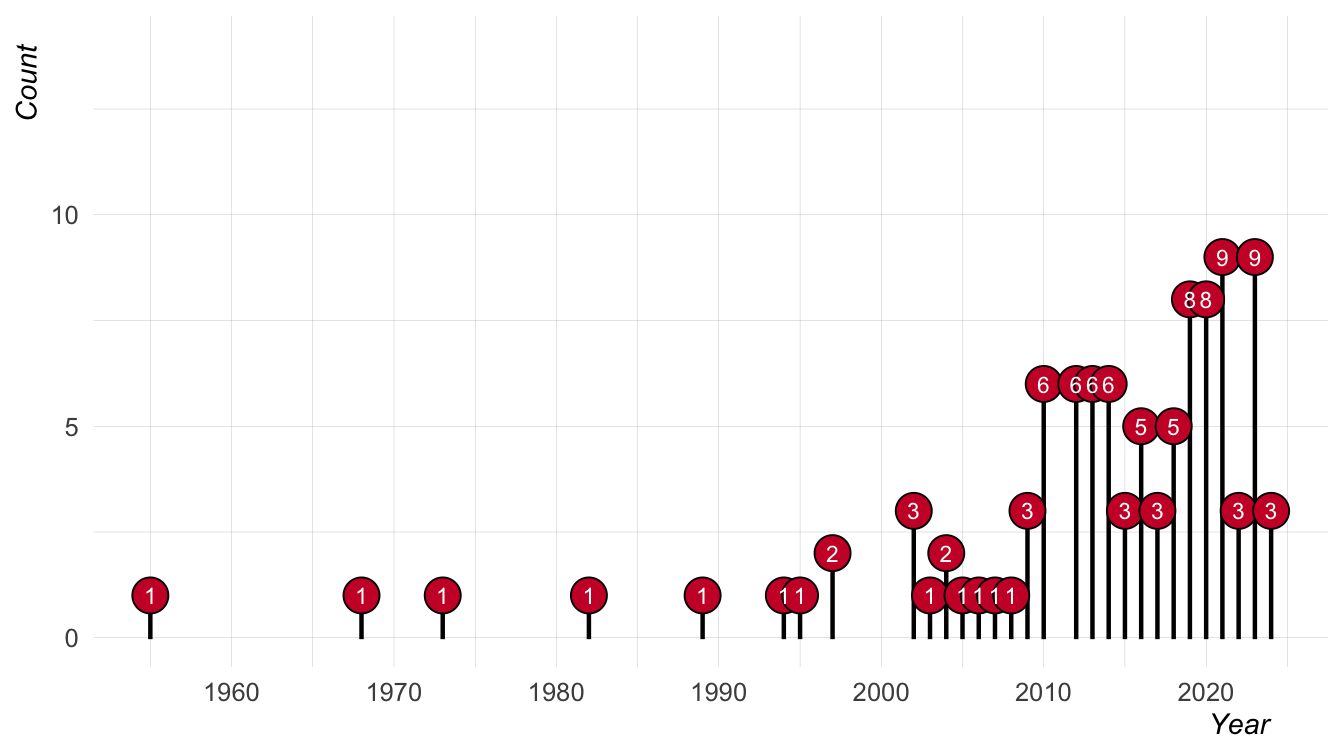
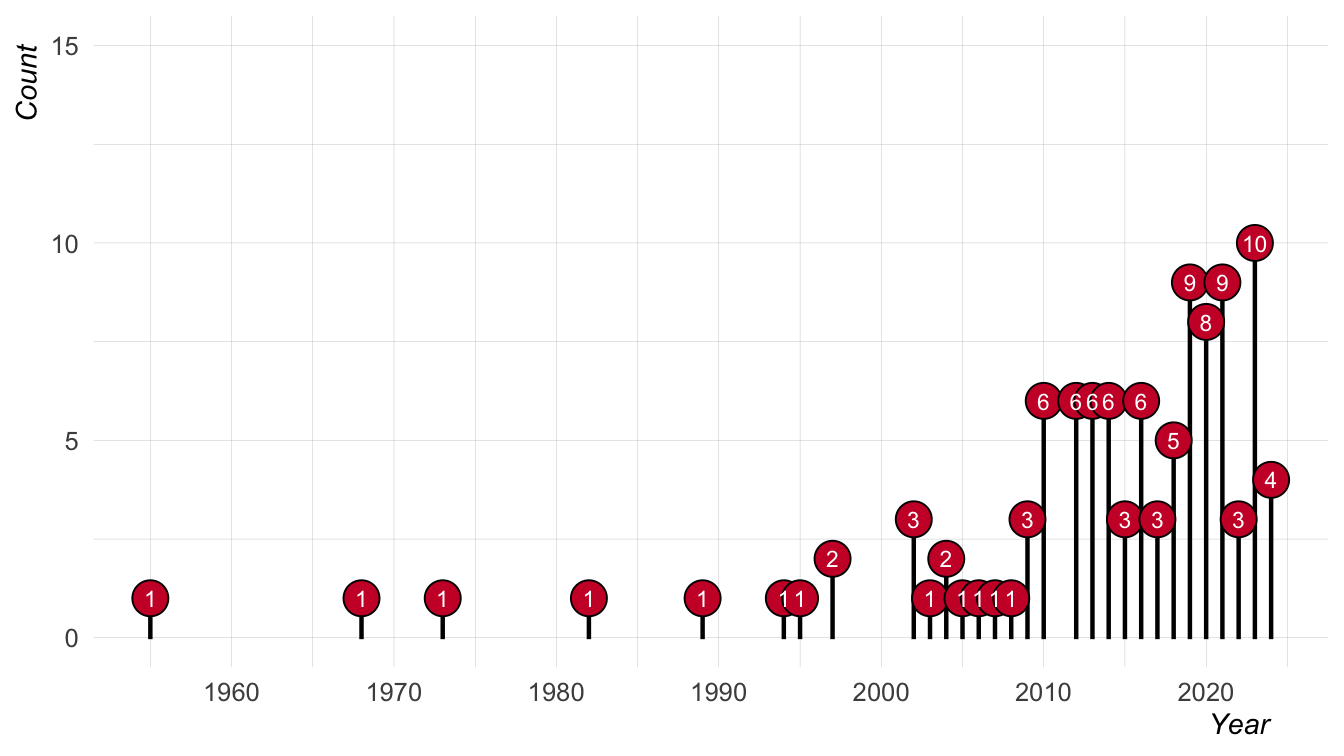
add final refs

diff --git a/README.md b/README.md
@@ -1,6 +1,6 @@
 # Sound communities references
 Joseph V. Casillas
-2025-02-26
+2025-02-28
 
 ## Citation Types
 
@@ -176,6 +176,16 @@ Brice, Alejandro E, Cecyle K Carson, and Jennifer Dennis O’Brien. 2009.
 “Spanish-English Articulation and Phonology of 4-and 5-Year-Old
 Preschool Children: An Initial Investigation.” *Communication Disorders
 Quarterly* 31 (1): 3–14. <https://doi.org/10.1177/1525740108327447>.
+
+</div>
+
+<div id="ref-brown2023searching" class="csl-entry">
+
+Brown, Bianca, Botagoz Tusmagambet, Valentino Rahming, Chun-Ying Tu,
+Michael B DeSalvo, and Seth Wiener. 2023. “Searching for the "Native"
+Speaker: A Preregistered Conceptual Replication and Extension of Reid,
+Trofimovich, and O’Brien (2019).” *Applied Psycholinguistics* 44 (4):
+475–94. <https://doi.org/10.1017/S0142716423000127>.
 
 </div>
 
@@ -477,6 +487,15 @@ Psychology* 73 (1): 55–79. <https://doi.org/10.1177/1747021819865833>.
 
 </div>
 
+<div id="ref-kartushina2016and" class="csl-entry">
+
+Kartushina, Natalia, Ulrich H Frauenfelder, and Narly Golestani. 2016.
+“How and When Does the Second Language Influence the Production of
+Native Speech Sounds: A Literature Review.” *Language Learning* 66 (S2):
+155–86. <https://doi.org/10.1111/lang.12187>.
+
+</div>
+
 <div id="ref-kartushina2019third" class="csl-entry">
 
 Kartushina, Natalia, and Clara D. Martin. 2019. “Third-Language Learning
@@ -712,6 +731,14 @@ Action.” *Journal of Experimental Child Psychology* 162: 31–38.
 
 </div>
 
+<div id="ref-olga2024native" class="csl-entry">
+
+Olga, Dmitrieva, Chiara Celata, Kartushina Natalia, et al. 2024. “Native
+Speech Perception in the Context of Multilingualism and Language
+Learning.” *Languages* 7.
+
+</div>
+
 <div id="ref-open2015estimating" class="csl-entry">
 
 Open Science Collaboration. 2015. “Estimating the Reproducibility of
@@ -760,6 +787,16 @@ University Press.
 Reed, Peter E. 2020. “Place and Language: Links Between Speech, Region,
 and Connection to Place.” *Wiley Interdisciplinary Reviews: Cognitive
 Science* 11 (3): 1–11. <https://doi.org/10.1002/wcs.1524>.
+
+</div>
+
+<div id="ref-reid2019social" class="csl-entry">
+
+Reid, Kym Taylor, Pavel Trofimovich, and Mary Grantham O’Brien. 2019.
+“Social Attitudes and Speech Ratings: Effects of Positive and Negative
+Bias on Multiage Listeners’ Judgments of Second Language Speech.”
+*Studies in Second Language Acquisition* 41 (2): 419–42.
+<https://doi.org/10.1017/S0272263118000244>.
 
 </div>
 
